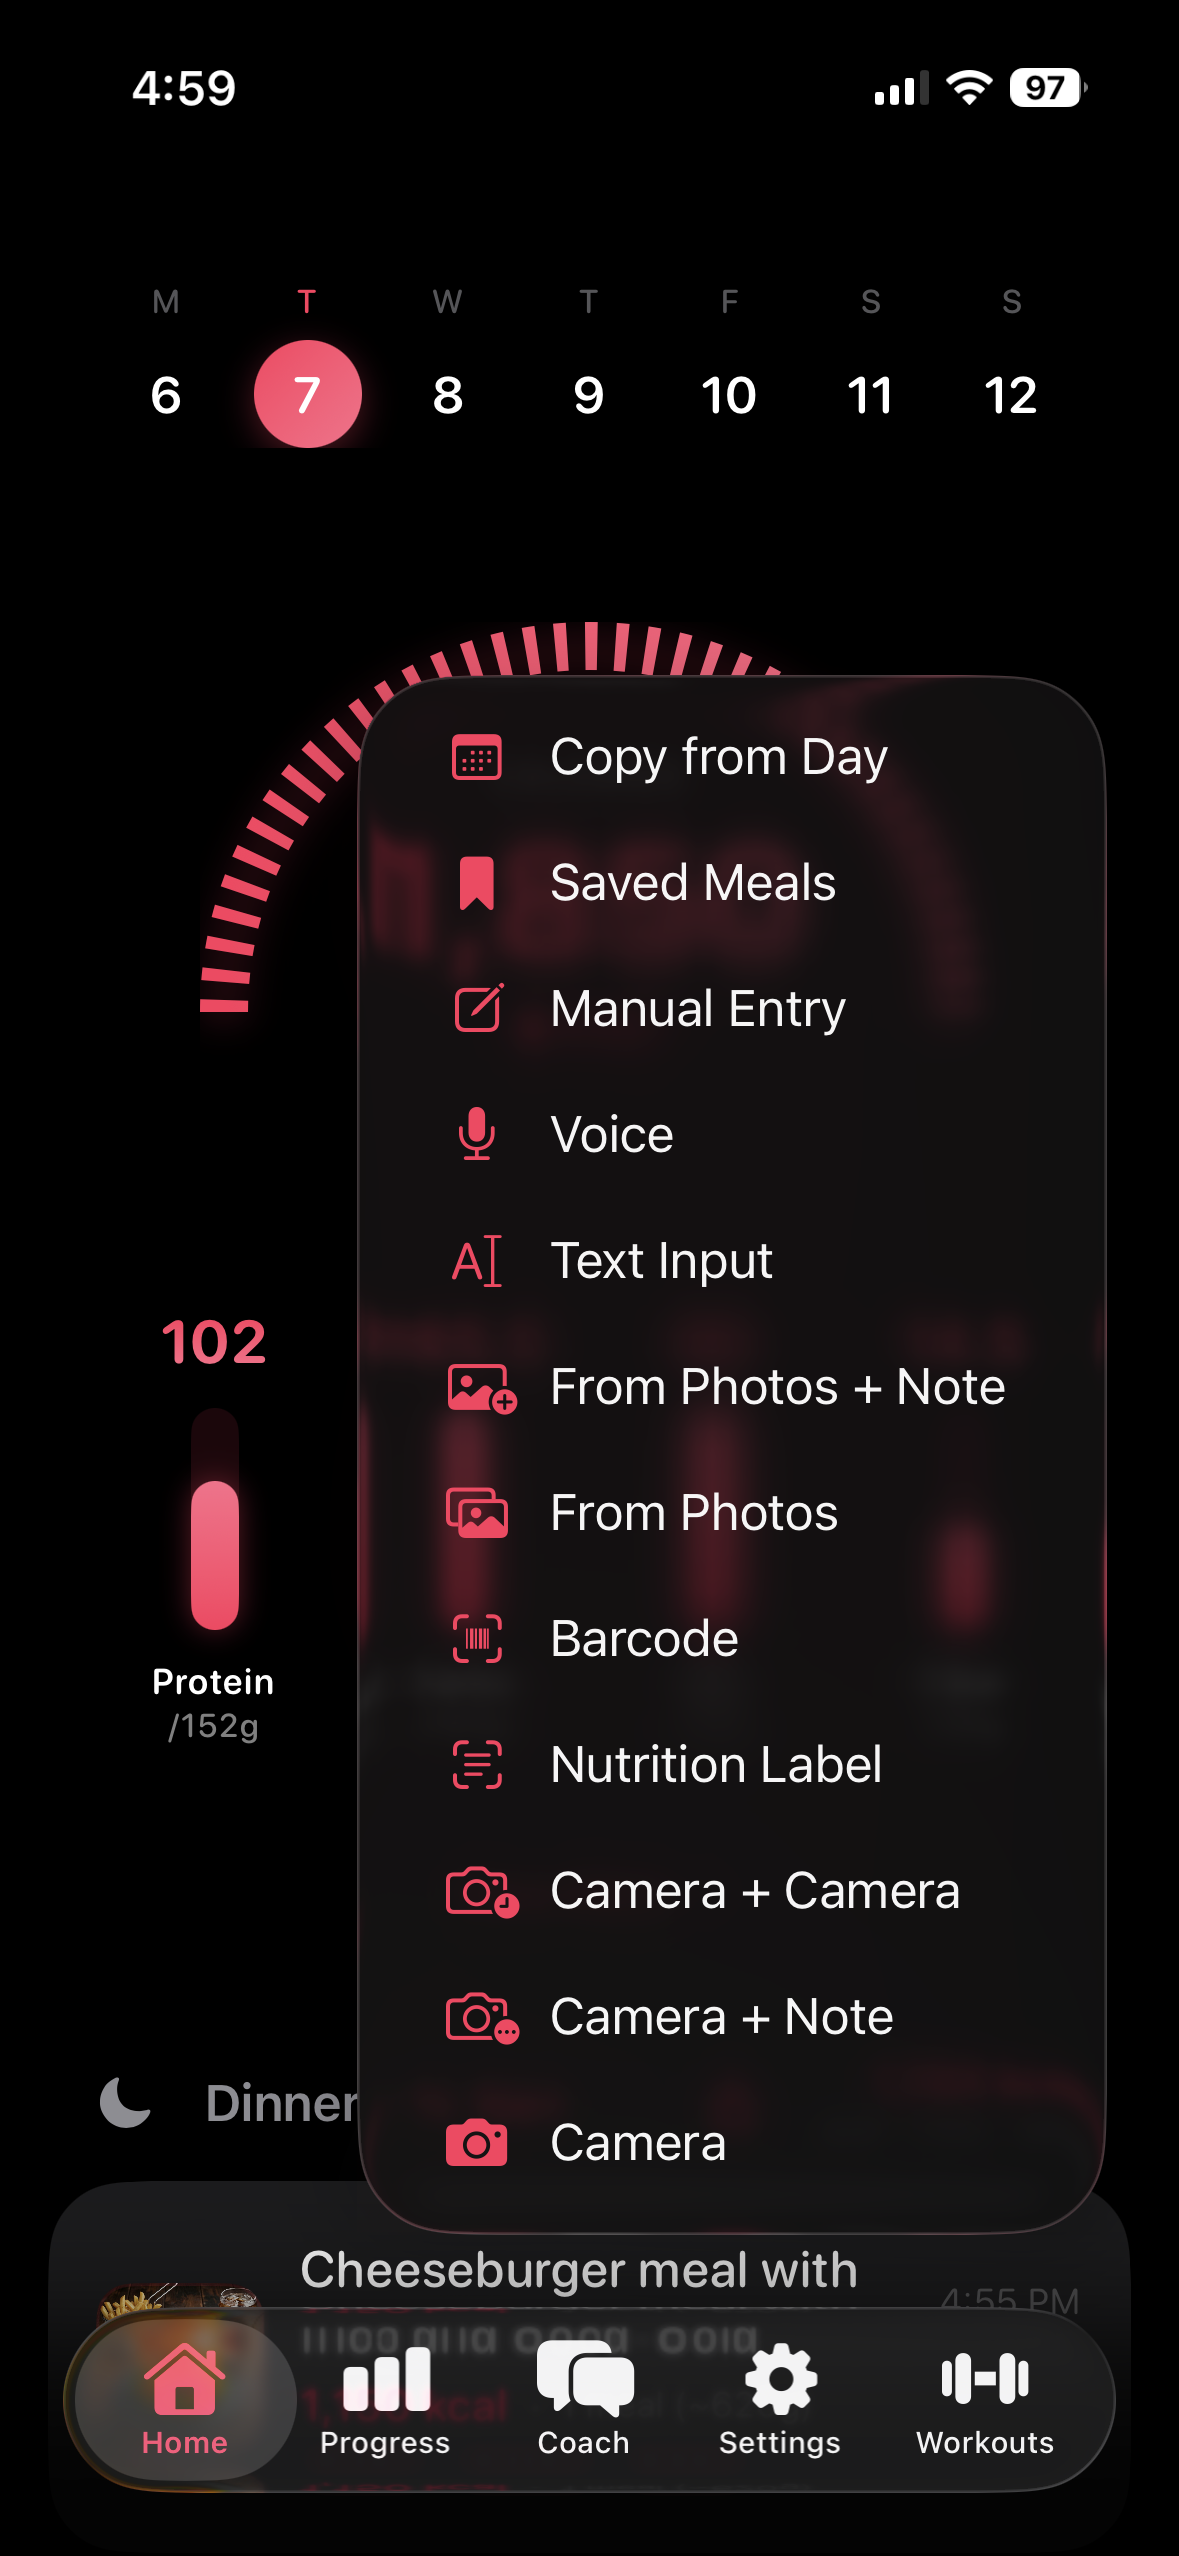
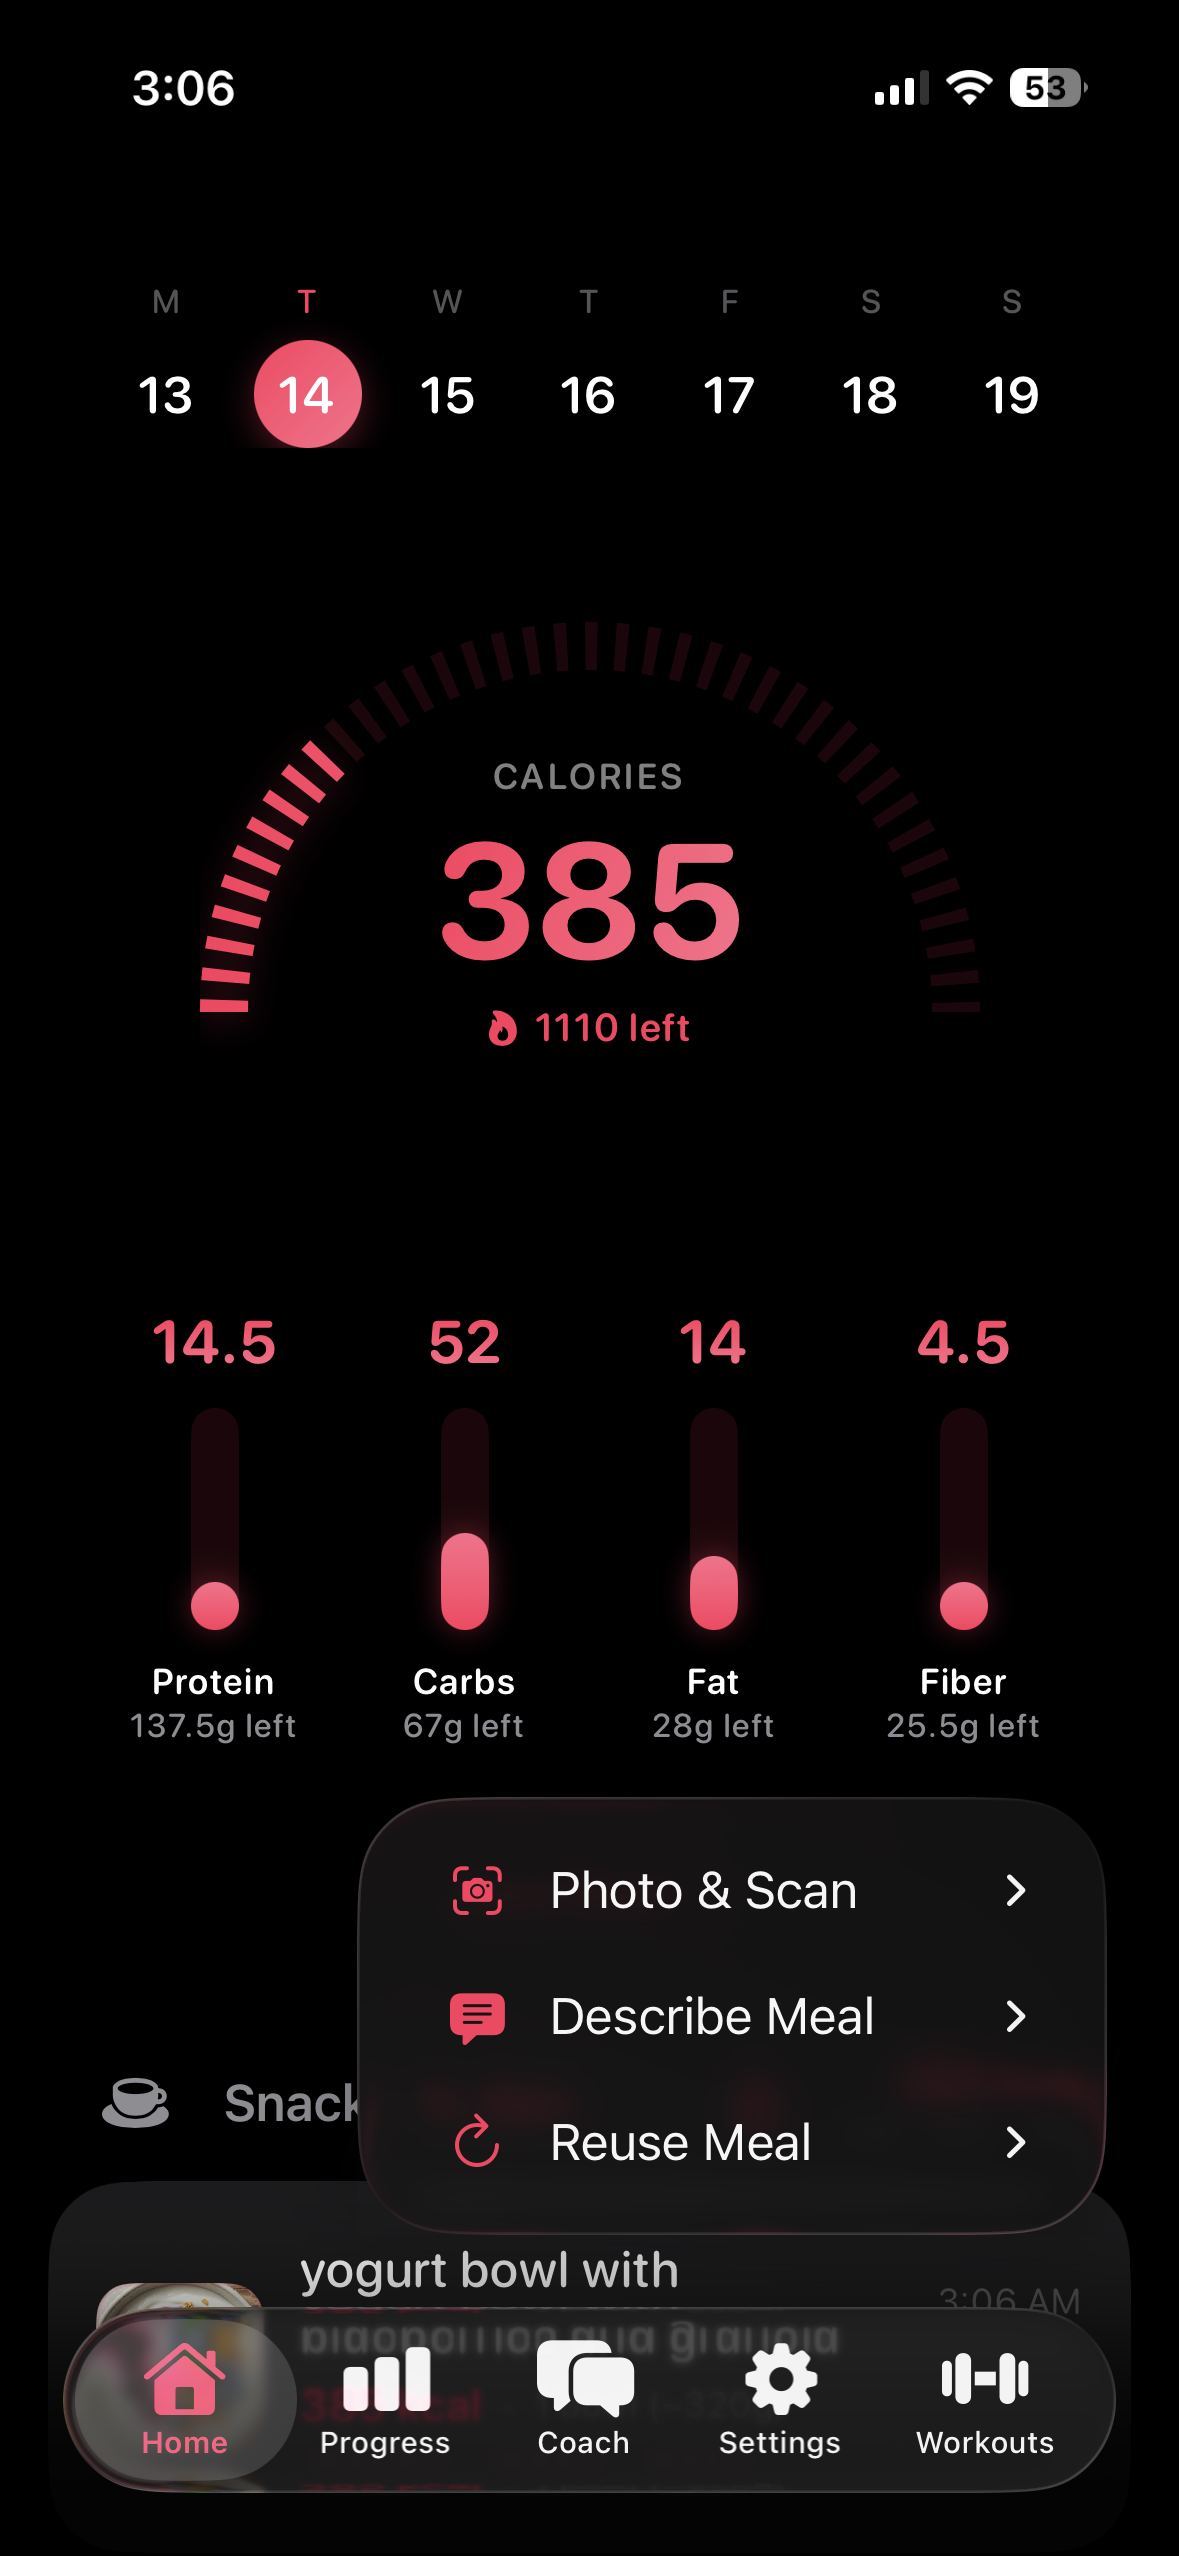
Update grouped logging menu screenshot

diff --git a/web/index.html b/web/index.html
@@ -611,7 +611,7 @@
       <figcaption class="plate-caption"><span class="num">PLATE&nbsp;01</span><span>Home · Dashboard</span></figcaption>
     </figure>
     <figure class="plate">
-      <div class="phone-frame"><div class="phone-screen"><img src="assets/screenshots/logging.png" alt="Fud AI logging options for camera, barcode, voice, text, Siri, manual entry, and saved meals" width="1179" height="2556" loading="lazy" decoding="async"></div></div>
+      <div class="phone-frame"><div class="phone-screen"><img src="assets/screenshots/logging.png" alt="Fud AI grouped logging menu with Photo and Scan, Describe Meal, and Reuse Meal" width="1179" height="2556" loading="lazy" decoding="async"></div></div>
       <figcaption class="plate-caption"><span class="num">PLATE&nbsp;02</span><span>Log · Options</span></figcaption>
     </figure>
     <figure class="plate">

diff --git a/README.md b/README.md
@@ -169,7 +169,7 @@ A ten-screen walkthrough of the current app flow — from opening the dashboard 
       <sub>Daily calorie ring, selected Home nutrient cards, and today's logged meals grouped by meal type. Week strip at the top for date navigation.</sub>
     </td>
     <td align="center" width="33%">
-      <img src="web/assets/screenshots/logging.png" width="230" alt="Food logging options menu">
+      <img src="web/assets/screenshots/logging.png" width="230" alt="Grouped food logging options menu">
       <br><br>
       <b>02 · Log · Options</b>
       <br>
